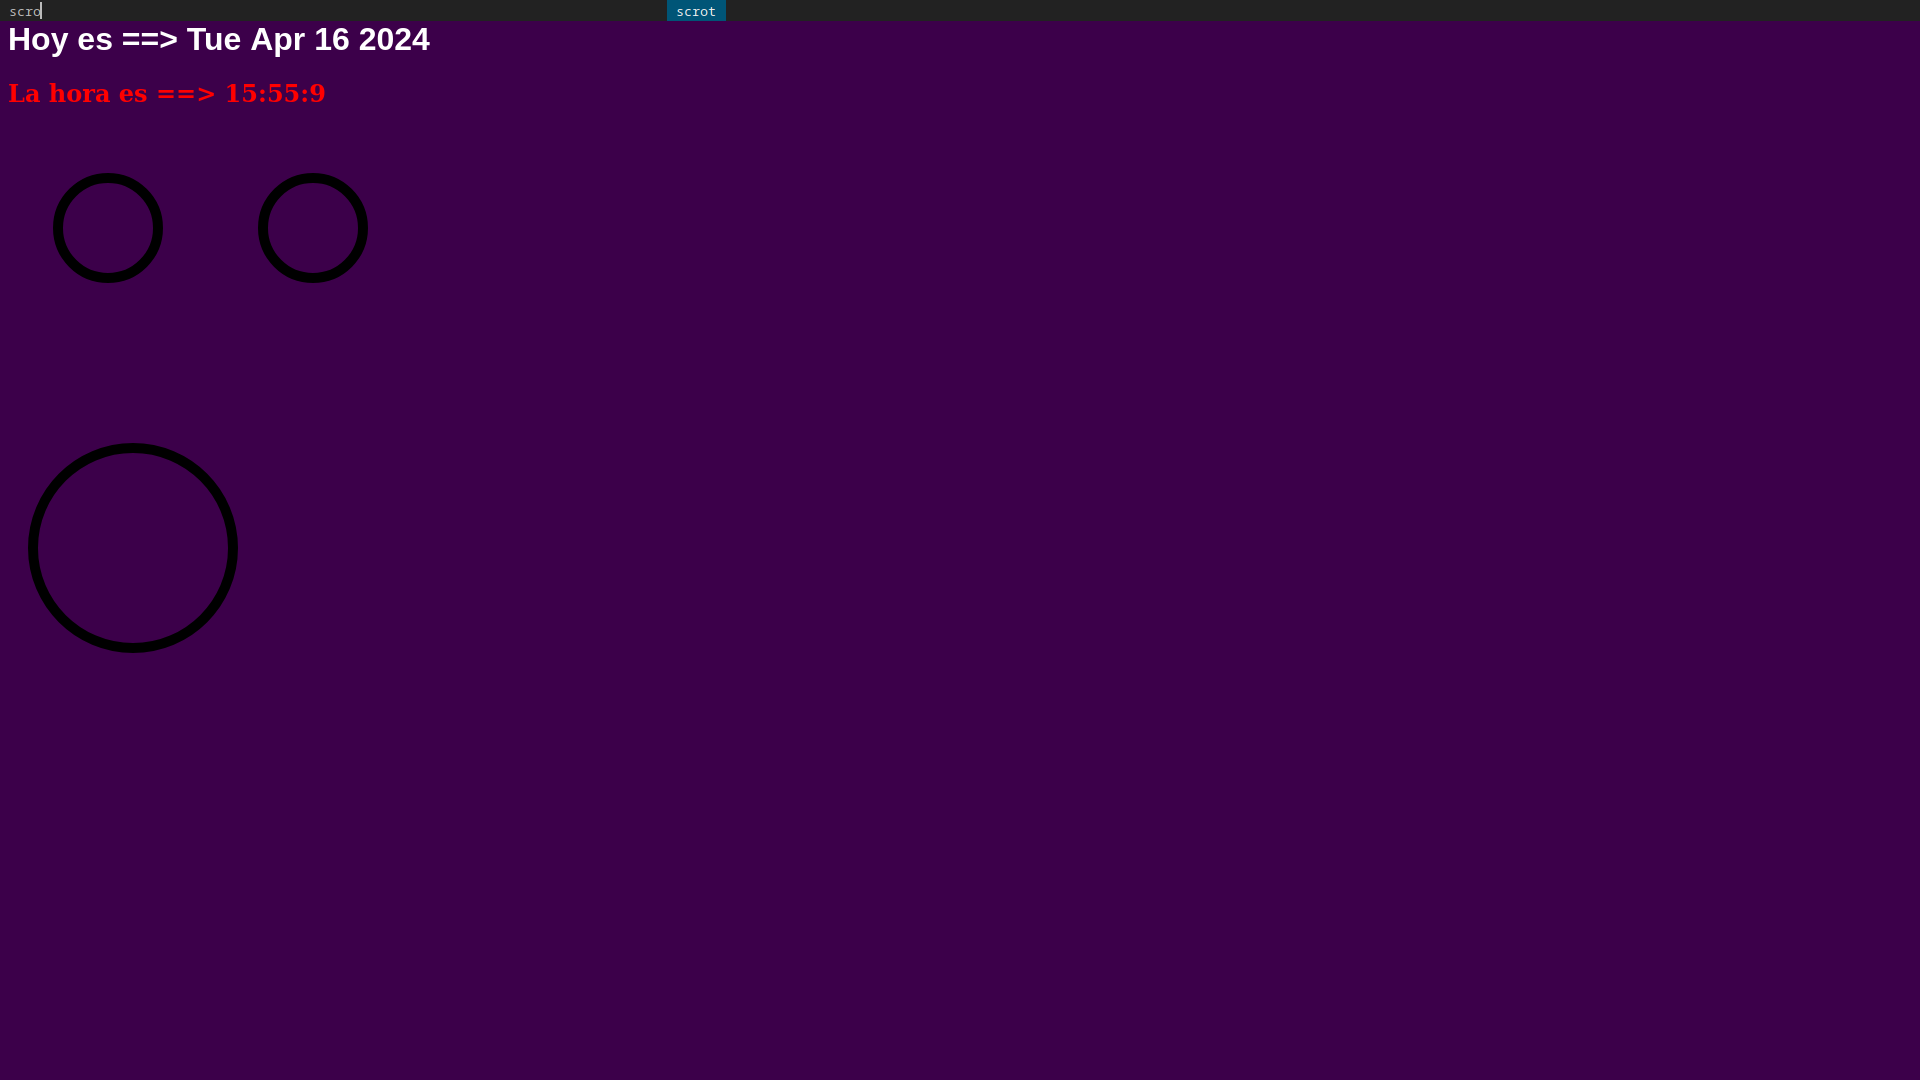
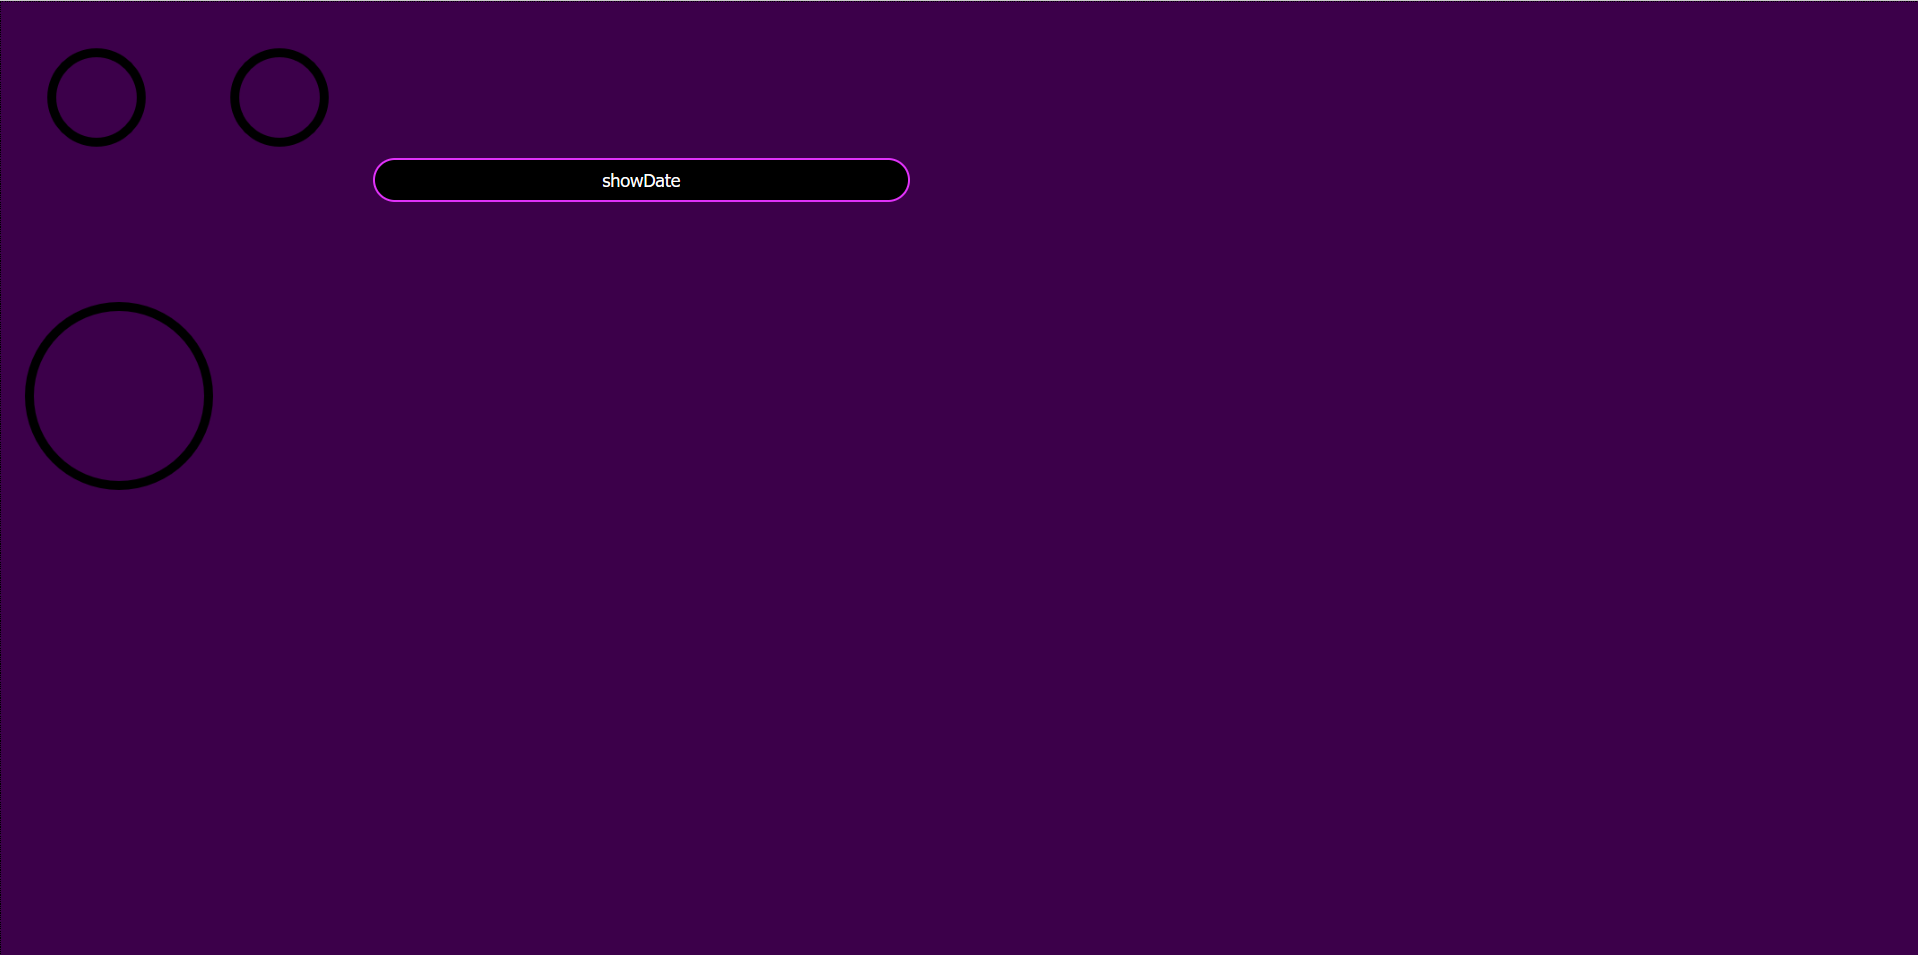
A little bit better code and two image examples, nice ;)

Changed region(s): [[0.0, 0.0, 1.0, 0.2733], [0.0, 0.334, 0.123, 0.6073], [0.0308, 0.3037, 0.0923, 0.334]]

diff --git a/javaScript/script.js b/javaScript/script.js
@@ -1,45 +1,37 @@
 var date = new Date();
-document.body.innerHTML = "<h1>Hoy es ==> " + date.toDateString() + "</h1>" + "<h2>La hora es ==> " + date.getUTCHours() + ":"+ date.getUTCMinutes() + ":" + date.getUTCSeconds()+ "</h2>";
+
+const rEyes = 50;
+const rMouth = 100;
+
+function showDate() {
+	document.body.innerHTML = "<h1>Hoy es ==> " + date.toDateString() + "</h1>" + "<h2>La hora es ==> " + date.getUTCHours() + ":"+ date.getUTCMinutes() + ":" + date.getUTCSeconds()+ "</h2>";
+}
 
 function drawCircle()
 {
 	var canvas = document.getElementById("id_circle");
 	if (canvas.getContext) {
-		var ctx = canvas.getContext("2d")
-		var x = canvas.width / 2;
-		var y = canvas.height / 2;
-		var R = 50;
-		ctx.beginPath();
-		ctx.arc(x, y, R, 0, 2 * Math.PI, false);
-		ctx.lineWidth = 10;
-		ctx.strokeStype = "FF0000";
-		ctx.stroke();
+		drawArc(canvas, rEyes);
 	}
 
 	var canvas_element_two = document.getElementById("id_circle_two");
 	if (canvas_element_two.getContext) {
-		var ctx = canvas_element_two.getContext("2d")
-		var x = canvas_element_two.width / 2;
-		var y = canvas_element_two.height / 2;
-		var R = 50;
-		ctx.beginPath();
-		ctx.arc(x, y, R, 0, 2 * Math.PI, false);
-		ctx.lineWidth = 10;
-		ctx.strokeStype = "FF0000";
-		ctx.stroke();
+		drawArc(canvas_element_two, rEyes);
 	}
 
 	var canvas_element_three = document.getElementById("id_circle_three");
 	if (canvas_element_three.getContext) {
-		var ctx = canvas_element_three.getContext("2d")
-		var x = canvas_element_three.width / 2;
-		var y = canvas_element_three.height / 2;
-		var R = 100;
+		drawArc(canvas_element_three, rMouth);
+	}
+}
+function drawArc(canvas_element, r) {
+		var ctx = canvas_element.getContext("2d")
+		var x = canvas_element.width / 2;
+		var y = canvas_element.height / 2;
 		ctx.beginPath();
-		ctx.arc(x, y, R, 0, 2 * Math.PI, false);
+		ctx.arc(x, y, r, 0, 2 * Math.PI, false);
 		ctx.lineWidth = 10;
 		ctx.strokeStype = "FF0000";
 		ctx.stroke();
-	}
 }
 

diff --git a/index.html b/index.html
@@ -5,11 +5,25 @@
 		<meta charset = "UTF-8">
 		<meta name = "viewport" content = "width=device-width", initial-scale = 2">
 		<link rel = "stylesheet" href = "css/styles.css">
+		<script type = "text/javascript" src="javaScript/script.js"></script>
+		<style>
+		.button {
+			background-color: black;
+			width : 600px;
+			font-size: 20px;
+			padding: 10px;
+			border-radius: 40px;
+			border: 3px solid #E032f9;
+			color: white;
+			cursor: pointer;
+			}
+		</style>
 	</head>
-	<body onload = "drawCircle();">
-		<script src = "javaScript/script.js"></script>
-		<canvas id = "id_circle" width = "200" height = "200"></canvas>
-		<canvas id = "id_circle_two" width = "200" height = "200"></canvas>
+	<body onload = "drawCircle()">
+		<canvas id = "id_circle" class = "canvas"  width = "200" height = "200"></canvas>
+		<canvas id = "id_circle_two" class = "canvas" width = "200" height = "200"></canvas>
+		<body>
+			<button  class="button"  width = "600" height = "600" onclick="showDate()">showDate</button>
 		<p></p>
 		<canvas id = "id_circle_three" width = "250" height = "400"></canvas>
 	</body>
